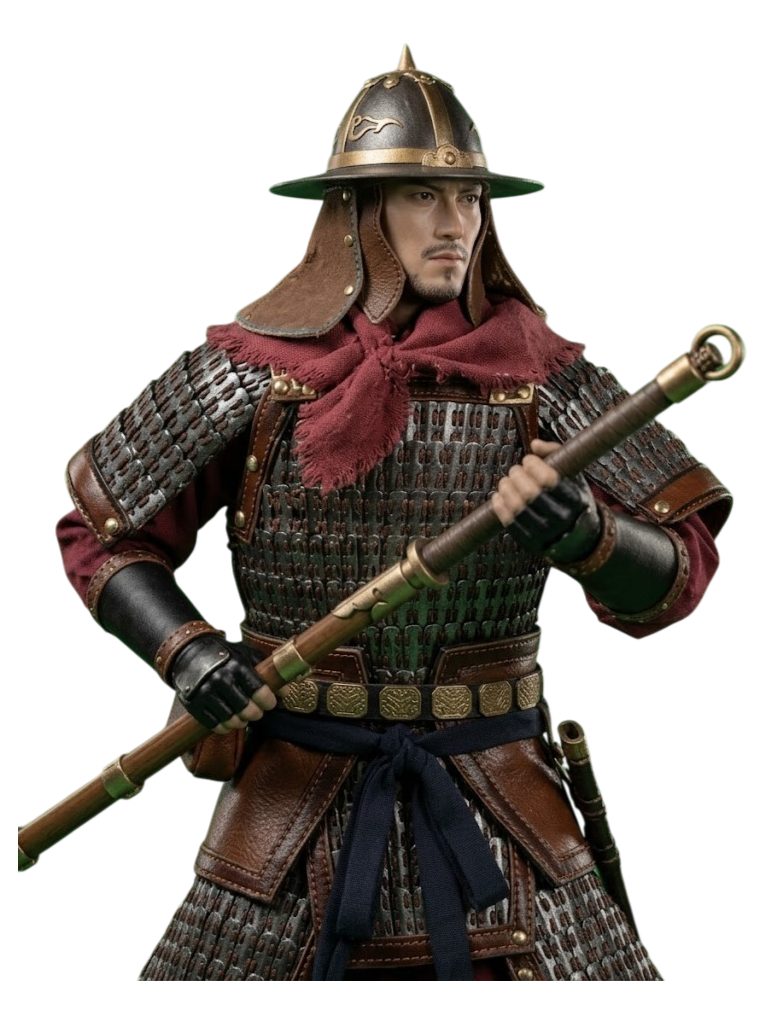
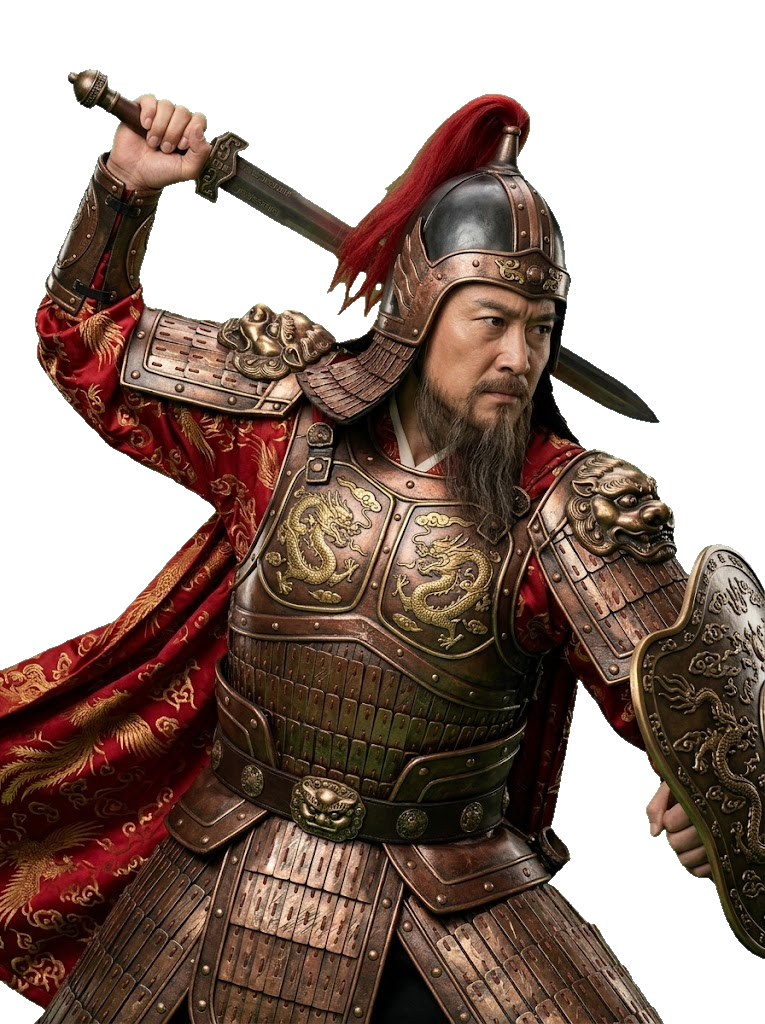
Auto Backup: 2026/9/2 16:02:13

diff --git a/src/ui/scene13/Scene13EnvironmentGenerator.ts b/src/ui/scene13/Scene13EnvironmentGenerator.ts
@@ -1159,37 +1159,77 @@ function buildRiver(
     const shallowCells: Array<[number, number]> = [];
     const bankCells: Array<[number, number]> = [];
 
-    // 🔴 [2026-09-02 主人需求] 城门道路穿河浅滩（Shallows）：
-    //    攻城战临城河（moat）与北门/南门两条进场石道相交处转为涉水浅滩。
-    //    深水核心（actualWaterTile）在道路通道避让断开，道路上方铺半透明清透浅水（sh2），
-    //    清晰透出底层石板/碎石路基，配合涉水波纹（renderWadingRipples）展现 DE 经典渡河攻城演出。
+    // 🔴 [2026-09-02 主人需求] 城门道路穿河浅滩（Shallows）开阔渐变升级：
+    //    1. 范围扩大（自然渡口尺度）：核心浅滩半高 75px，过渡半高 100px（总影响跨度达 350px）；
+    //    2. 连续余弦平滑渐变：深水多边形向浅滩两端平滑收缩尖锐合拢，呈现天然江水没入浅滩的丝滑水色过渡，绝无生硬平切口；
+    //    3. 浅水（sh2）与水下湿沙床（wetBankTile）在浅滩处扇形自然展开，配合 16~18px 高斯羽化；
+    //    4. 浅滩水面清爽：排除 130px 范围内的芦苇与河石。
     const midY = VH / 2;
-    const moatShallowCorridors: Array<{ y: number; halfH: number }> = moat ? [
-        { y: midY - 444, halfH: 48 }, // 北翼城门进场大道浅滩
-        { y: midY + 444, halfH: 48 }, // 南翼城门进场大道浅滩
-    ] : [];
+    const northGateY = midY - 444;
+    const southGateY = midY + 444;
 
-    const inShallowCorridor = (y: number): boolean =>
-        moatShallowCorridors.some(c => Math.abs(y - c.y) <= c.halfH);
+    const getShallowDistY = (y: number): number => {
+        if (!moat) return 99999;
+        return Math.min(Math.abs(y - northGateY), Math.abs(y - southGateY));
+    };
+
+    const getDeepFactor = (distY: number): number => {
+        if (distY <= 75) return 0; // 核心浅滩区：无深水
+        if (distY >= 175) return 1; // 正常深水区
+        const t = (distY - 75) / 100;
+        return 0.5 - 0.5 * Math.cos(t * Math.PI); // 余弦平滑插值 0 -> 1
+    };
+
+    interface SampleRiverPt {
+        x: number;
+        y: number;
+        nx: number;
+        ny: number;
+        wW: number;
+        fDeep: number;
+        wW_deep: number;
+        wW_shallow: number;
+        wW_bank: number;
+    }
+
+    const riverPts: SampleRiverPt[] = pts.map(p => {
+        const distY = getShallowDistY(p.y);
+        const fDeep = getDeepFactor(distY);
+        const fExpand = Math.max(0, 1 - distY / 175);
+        const shallowExtra = fExpand * 36;
+        const bankExtra = fExpand * 28;
+        return {
+            x: p.x,
+            y: p.y,
+            nx: p.nx,
+            ny: p.ny,
+            wW: p.wW,
+            fDeep,
+            wW_deep: p.wW * fDeep,
+            wW_shallow: p.wW + shallowDepth + shallowExtra,
+            wW_bank: p.wW + shallowDepth + bankDepth + shallowExtra + bankExtra,
+        };
+    });
 
     for (let gy = 0; gy < gh; gy++) {
         for (let gx = 0; gx < gw; gx++) {
             const px = isoCellX(gx, gy, ox);
             const py = isoCellY(gx, gy, oy);
             let minDist = 999999;
+            let closestPt = riverPts[0];
             for (let k = 0; k <= numSamplePts; k++) {
-                const d = Math.hypot(px - pts[k].x, (py - pts[k].y) * 1.5);
-                if (d < minDist) minDist = d;
-            }
-            if (minDist < baseHalfW) {
-                if (inShallowCorridor(py)) {
-                    shallowCells.push([gx, gy]);
-                } else {
-                    waterCells.push([gx, gy]);
+                const rp = riverPts[k];
+                const d = Math.hypot(px - rp.x, (py - rp.y) * 1.5);
+                if (d < minDist) {
+                    minDist = d;
+                    closestPt = rp;
                 }
-            } else if (minDist < baseHalfW + shallowDepth) {
+            }
+            if (minDist < closestPt.wW_deep && closestPt.wW_deep > 4) {
+                waterCells.push([gx, gy]);
+            } else if (minDist < closestPt.wW_shallow) {
                 shallowCells.push([gx, gy]);
-            } else if (minDist < baseHalfW + shallowDepth + bankDepth) {
+            } else if (minDist < closestPt.wW_bank) {
                 bankCells.push([gx, gy]);
             }
         }
@@ -1200,35 +1240,35 @@ function buildRiver(
     for (const [x, y] of bankCells) occupied.add(`${x},${y}`);
 
     // 等距投影比例多边形边界
-    const sL = pts.map(p => ({ x: p.x + p.nx * (p.wW + shallowDepth), y: p.y + p.ny * (p.wW + shallowDepth) * 0.55 }));
-    const sR = pts.map(p => ({ x: p.x - p.nx * (p.wW + shallowDepth), y: p.y - p.ny * (p.wW + shallowDepth) * 0.55 })).reverse();
-    const bL = pts.map(p => ({ x: p.x + p.nx * (p.wW + shallowDepth + bankDepth), y: p.y + p.ny * (p.wW + shallowDepth + bankDepth) * 0.55 }));
-    const bR = pts.map(p => ({ x: p.x - p.nx * (p.wW + shallowDepth + bankDepth), y: p.y - p.ny * (p.wW + shallowDepth + bankDepth) * 0.55 })).reverse();
+    const sL = riverPts.map(p => ({ x: p.x + p.nx * p.wW_shallow, y: p.y + p.ny * p.wW_shallow * 0.55 }));
+    const sR = riverPts.map(p => ({ x: p.x - p.nx * p.wW_shallow, y: p.y - p.ny * p.wW_shallow * 0.55 })).reverse();
+    const bL = riverPts.map(p => ({ x: p.x + p.nx * p.wW_bank, y: p.y + p.ny * p.wW_bank * 0.55 }));
+    const bR = riverPts.map(p => ({ x: p.x - p.nx * p.wW_bank, y: p.y - p.ny * p.wW_bank * 0.55 })).reverse();
 
     const actualWaterTile = waterTerrainForTheme(theme, season, lat, elev, biome, lng);
     const actualBeachTile = beachTerrainForTheme(theme, season, lat, elev, biome, lng);
     const wetBankTile = actualBeachTile === 'des' ? 'des' : 'beach_wet';
 
     // 由外向内四层渲染：
-    // 1. 湿泥沙岸过渡（消除河岸与陆地草皮的生硬交界）
+    // 1. 湿泥沙岸过渡（消除河岸与陆地草皮的生硬交界，在浅滩处自然扩宽）
     if (bankCells.length > 0) {
-        patches.push({ tile: wetBankTile, cells: bankCells, polygon: [...bL, ...bR], alpha: 0.85, category: 'shore', blur: 16 });
+        patches.push({ tile: wetBankTile, cells: bankCells, polygon: [...bL, ...bR], alpha: 0.85, category: 'shore', blur: 18 });
     }
     // 2. 水下泥沙底床垫底（铺在浅水区下，确保半透明浅水能透出水下沙泥质感）
     if (shallowCells.length > 0) {
-        patches.push({ tile: wetBankTile, cells: shallowCells, polygon: [...sL, ...sR], alpha: 0.90, category: 'shore', blur: 14 });
+        patches.push({ tile: wetBankTile, cells: shallowCells, polygon: [...sL, ...sR], alpha: 0.90, category: 'shore', blur: 16 });
     }
-    // 3. 清透见底近岸浅水（sh2 浅水材质，透出水下泥沙与浅滩地基石路）
+    // 3. 清透见底近岸浅水（sh2 浅水材质，透出水下泥沙与浅滩地基石路，带 16px 高斯羽化渐变）
     if (shallowCells.length > 0) {
-        patches.push({ tile: 'sh2', cells: shallowCells, polygon: [...sL, ...sR], alpha: 0.58, category: 'shore', blur: 14 });
+        patches.push({ tile: 'sh2', cells: shallowCells, polygon: [...sL, ...sR], alpha: 0.58, category: 'shore', blur: 16 });
     }
-    // 4. 河心深水核心（清澈翡翠绿/明亮蔚蓝江水）：在浅滩通道处自然切分断开
+    // 4. 河心深水核心（清澈翡翠绿/明亮蔚蓝江水）：在浅滩处平滑收细渐变合拢
     if (waterCells.length > 0) {
-        if (moatShallowCorridors.length > 0) {
-            const deepSegments: Array<typeof pts> = [];
-            let currentSeg: typeof pts = [];
-            for (const pt of pts) {
-                if (inShallowCorridor(pt.y)) {
+        if (moat) {
+            const deepSegments: Array<typeof riverPts> = [];
+            let currentSeg: typeof riverPts = [];
+            for (const pt of riverPts) {
+                if (pt.fDeep <= 0) {
                     if (currentSeg.length >= 2) deepSegments.push(currentSeg);
                     currentSeg = [];
                 } else {
@@ -1238,32 +1278,32 @@ function buildRiver(
             if (currentSeg.length >= 2) deepSegments.push(currentSeg);
 
             for (const seg of deepSegments) {
-                const segWL = seg.map(p => ({ x: p.x + p.nx * p.wW, y: p.y + p.ny * p.wW * 0.55 }));
-                const segWR = seg.map(p => ({ x: p.x - p.nx * p.wW, y: p.y - p.ny * p.wW * 0.55 })).reverse();
-                patches.push({ tile: actualWaterTile, cells: waterCells, polygon: [...segWL, ...segWR], alpha: 0.96, category: 'shore', blur: 10 });
+                const segWL = seg.map(p => ({ x: p.x + p.nx * p.wW_deep, y: p.y + p.ny * p.wW_deep * 0.55 }));
+                const segWR = seg.map(p => ({ x: p.x - p.nx * p.wW_deep, y: p.y - p.ny * p.wW_deep * 0.55 })).reverse();
+                patches.push({ tile: actualWaterTile, cells: waterCells, polygon: [...segWL, ...segWR], alpha: 0.96, category: 'shore', blur: 14 });
             }
         } else {
-            const wL = pts.map(p => ({ x: p.x + p.nx * p.wW, y: p.y + p.ny * p.wW * 0.55 }));
-            const wR = pts.map(p => ({ x: p.x - p.nx * p.wW, y: p.y - p.ny * p.wW * 0.55 })).reverse();
+            const wL = riverPts.map(p => ({ x: p.x + p.nx * p.wW, y: p.y + p.ny * p.wW * 0.55 }));
+            const wR = riverPts.map(p => ({ x: p.x - p.nx * p.wW, y: p.y - p.ny * p.wW * 0.55 })).reverse();
             patches.push({ tile: actualWaterTile, cells: waterCells, polygon: [...wL, ...wR], alpha: 0.96, category: 'shore', blur: 10 });
         }
     }
 
-    // 4. 水岸自然生态点缀：芦苇、睡莲、河滩湿石（自动排除浅滩道路通行区）
+    // 4. 水岸自然生态点缀：芦苇、睡莲、河滩湿石（自动排除开阔浅滩渡口）
     const decorCount = 8;
     let riverRockCount = 0;
     const MAX_RIVER_ROCKS = 1; // 🔴 [2026-09-01 主人定] 一条河流全长范围内最多只放 1 块石头
     for (let i = 0; i < decorCount; i++) {
         const tIdx = Math.floor((i + rng.next() * 0.8) / decorCount * (numSamplePts - 1));
-        const pt = pts[tIdx];
+        const pt = riverPts[tIdx];
         if (!pt || pt.y < 30 || pt.y > VH - 30) continue;
-        if (inShallowCorridor(pt.y)) continue;
+        if (getShallowDistY(pt.y) < 130) continue;
 
         const side = rng.chance(0.5) ? 1 : -1;
         const dist = pt.wW + shallowDepth * (0.3 + rng.next() * 0.9);
         const oxX = pt.x + side * pt.nx * dist;
         const oyY = pt.y + side * pt.ny * dist * 0.55;
-        if (inShallowCorridor(oyY)) continue;
+        if (getShallowDistY(oyY) < 130) continue;
 
         // 水生植物（芦苇/睡莲）与河滩岩石（岩石封顶 1 块，其余为芦苇睡莲）
         const bankRocks = filterRiverBankRockAssets(decorForTheme(theme, season, lat, elev, biome, lng).solid);

diff --git a/src/data/portrait_adjust.ts b/src/data/portrait_adjust.ts
@@ -647,11 +647,6 @@ export const DEFAULT_PORTRAIT_ADJUST: PortraitAdjustData = {
             "offsetX": 0,
             "offsetY": -8
         },
-        "/assets/JIANGNAN/min_wangshenzhi.png": {
-            "scale": 1.16,
-            "offsetX": 0,
-            "offsetY": 28
-        },
         "/assets/JIANGNAN/quanzhou_liucongxiao.png": {
             "scale": 0.9,
             "offsetX": 0,
@@ -3328,7 +3323,7 @@ export const DEFAULT_PORTRAIT_ADJUST: PortraitAdjustData = {
             "offsetY": -8
         },
         "/assets/daming/qi_d_qijiguang.png": {
-            "scale": 1.13,
+            "scale": 1.11,
             "offsetX": 0,
             "offsetY": -59
         },
@@ -5897,11 +5892,6 @@ export const DEFAULT_PORTRAIT_ADJUST: PortraitAdjustData = {
             "offsetX": 0,
             "offsetY": -26
         },
-        "/assets/JIANGNAN/__闲置__JIANGNAN_28.png": {
-            "scale": 1,
-            "offsetX": 0,
-            "offsetY": -48
-        },
         "/assets/DIANQIAN/__闲置__DIANQIAN_29.png": {
             "scale": 0.9,
             "offsetX": 0,
@@ -7616,6 +7606,16 @@ export const DEFAULT_PORTRAIT_ADJUST: PortraitAdjustData = {
             "scale": 1.15,
             "offsetX": 6,
             "offsetY": -17
+        },
+        "/assets/JIANGNAN/__闲置__JIANGNAN_30.png": {
+            "scale": 1.16,
+            "offsetX": 0,
+            "offsetY": 28
+        },
+        "/assets/JIANGNAN/min_wangshenzhi.png": {
+            "scale": 1.04,
+            "offsetX": 0,
+            "offsetY": -48
         }
     },
     "folderGuides": {
